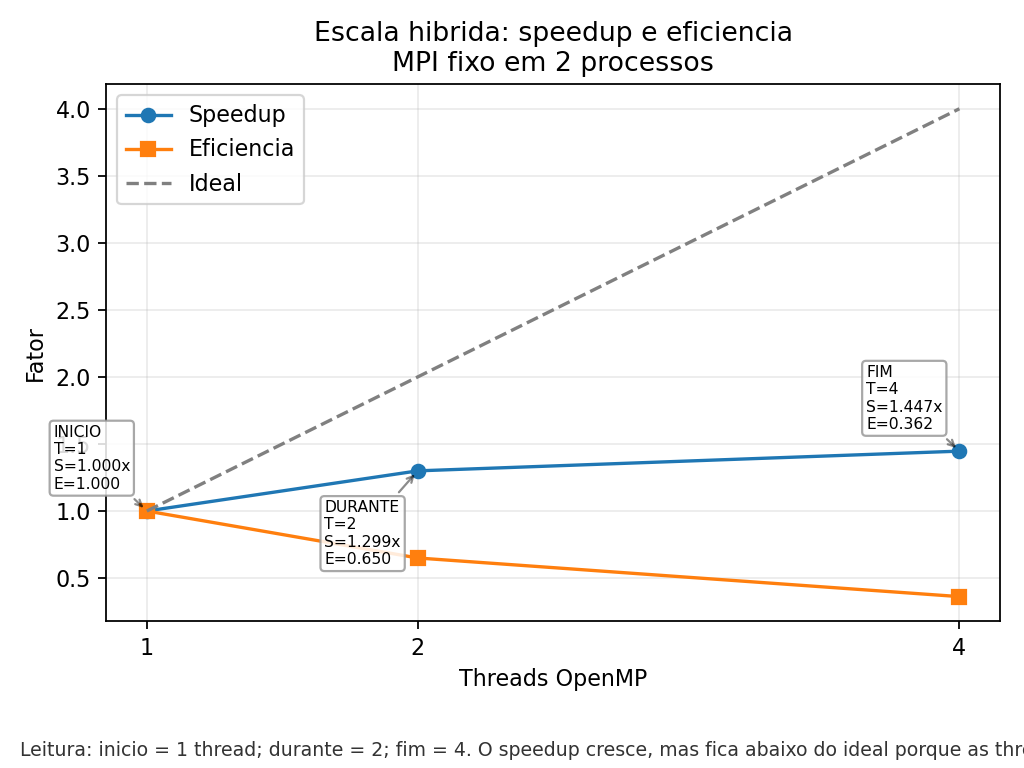
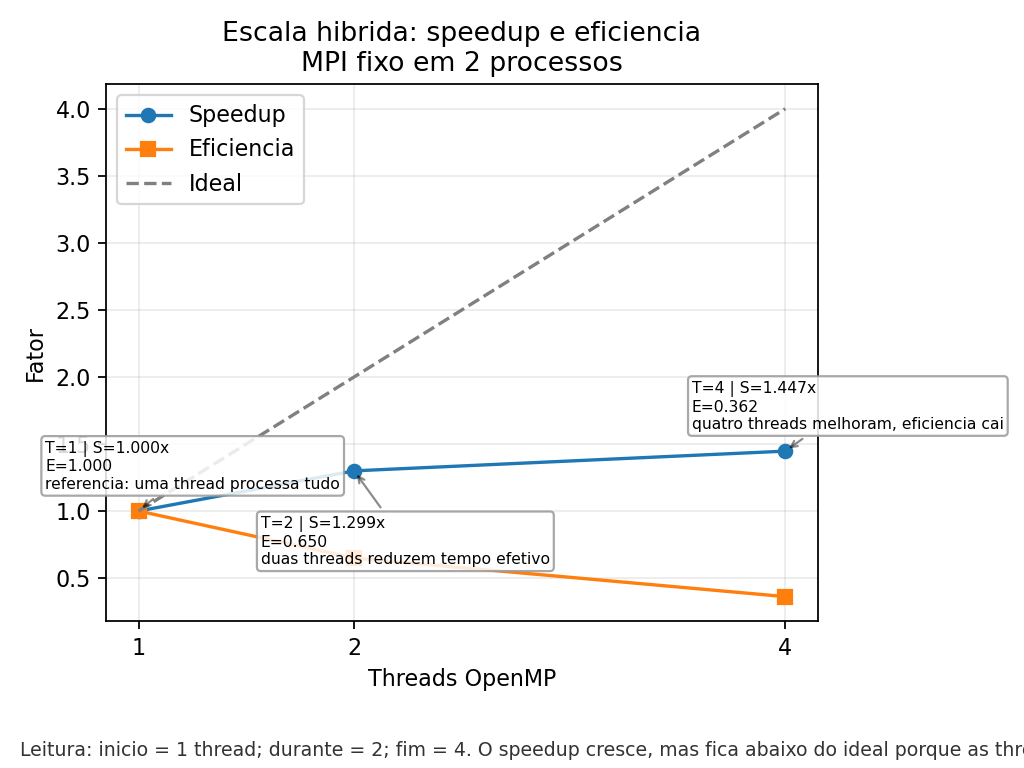
docs: clarify plot point explanations

diff --git a/scripts/analyze_cg_results.py b/scripts/analyze_cg_results.py
@@ -98,12 +98,17 @@ for matrix in sorted({row["matrix"] for row in base}):
         label=matrix,
     )
     for index, row in enumerate(values):
-        stage = "INICIO" if index == 0 else "FIM" if index == len(values) - 1 else "DURANTE"
+        descriptions = [
+            "bloco pequeno reduz zeros e tempo",
+            "bloco intermediario equilibra acesso e armazenamento",
+            "padding crescente aumenta trabalho e memoria",
+            "bloco grande amplia zeros e custo",
+        ]
         annotate_point(
             axis,
             row["block_size"],
             row["solve_mean_s"],
-            f"{stage}\nb={row['block_size']} | {row['solve_mean_s']:.3f}s\npad={row['padding_overhead'] * 100:.1f}%",
+            f"b={row['block_size']} | {row['solve_mean_s']:.3f}s\npad={row['padding_overhead'] * 100:.1f}%\n{descriptions[index]}",
             (4, 8 if index % 2 == 0 else -38),
         )
 axis.set_xlabel("Block size")
@@ -126,12 +131,16 @@ axis.errorbar(
     capsize=4,
 )
 for index, row in enumerate(strong):
-    stage = "INICIO" if index == 0 else "FIM" if index == len(strong) - 1 else "DURANTE"
+    descriptions = [
+        "referencia sem comunicacao MPI extra",
+        "mais comunicacao produz pouco ganho",
+        "overhead MPI domina e tempo aumenta",
+    ]
     annotate_point(
         axis,
         row["mpi_processes"],
         row["solve_mean_s"],
-        f"{stage}\nMPI={row['mpi_processes']}\n{row['solve_mean_s']:.3f}s",
+        f"MPI={row['mpi_processes']} | {row['solve_mean_s']:.3f}s\n{descriptions[index]}",
         (-48, 10 if index % 2 == 0 else -35),
     )
 axis.set_xlabel("Processos MPI")
@@ -148,11 +157,16 @@ axis.plot([row["mpi_processes"] for row in strong], [row["speedup"] for row in s
 axis.plot([row["mpi_processes"] for row in strong], [row["efficiency"] for row in strong], "s-", label="Eficiencia")
 axis.plot([row["mpi_processes"] for row in strong], [row["mpi_processes"] for row in strong], "--", color="gray", label="Ideal")
 for index, row in enumerate(strong):
+    descriptions = [
+        "referencia: speedup e eficiencia ideais",
+        "comunicacao reduz o ganho esperado",
+        "mais processos diminuem eficiencia final",
+    ]
     annotate_point(
         axis,
         row["mpi_processes"],
         row["speedup"],
-        f"MPI={row['mpi_processes']}\nS={row['speedup']:.3f}x\nE={row['efficiency']:.3f}",
+        f"MPI={row['mpi_processes']} | S={row['speedup']:.3f}x\nE={row['efficiency']:.3f}\n{descriptions[index]}",
         (-42, 10 if index % 2 == 0 else -38),
     )
 axis.set_xlabel("Processos MPI")
@@ -172,11 +186,16 @@ axis.plot([row["omp_threads"] for row in hybrid], [row["speedup"] for row in hyb
 axis.plot([row["omp_threads"] for row in hybrid], [row["efficiency"] for row in hybrid], "s-", label="Eficiencia")
 axis.plot([row["omp_threads"] for row in hybrid], [row["omp_threads"] for row in hybrid], "--", color="gray", label="Ideal")
 for index, row in enumerate(hybrid):
+    descriptions = [
+        "referencia: uma thread processa tudo",
+        "duas threads reduzem tempo efetivo",
+        "quatro threads melhoram, eficiencia cai",
+    ]
     annotate_point(
         axis,
         row["omp_threads"],
         row["speedup"],
-        f"{'INICIO' if index == 0 else 'FIM' if index == len(hybrid) - 1 else 'DURANTE'}\nT={row['omp_threads']}\nS={row['speedup']:.3f}x\nE={row['efficiency']:.3f}",
+        f"T={row['omp_threads']} | S={row['speedup']:.3f}x\nE={row['efficiency']:.3f}\n{descriptions[index]}",
         (-42, 10 if index % 2 == 0 else -42),
     )
 axis.set_xlabel("Threads OpenMP")
@@ -195,12 +214,17 @@ for matrix in sorted({row["matrix"] for row in base}):
     values = sorted((row for row in base if row["matrix"] == matrix), key=lambda row: row["block_size"])
     axis.plot([row["block_size"] for row in values], [row["padding_overhead"] * 100 for row in values], "o-", label=matrix)
     for index, row in enumerate(values):
-        stage = "INICIO" if index == 0 else "FIM" if index == len(values) - 1 else "DURANTE"
+        descriptions = [
+            "bloco pequeno: menos zeros adicionados",
+            "bloco intermediario: padding comeca crescer",
+            "bloco maior: mais zeros armazenados",
+            "bloco grande: alto desperdicio de memoria",
+        ]
         annotate_point(
             axis,
             row["block_size"],
             row["padding_overhead"] * 100,
-            f"{stage}\nb={row['block_size']}\npad={row['padding_overhead'] * 100:.1f}%",
+            f"b={row['block_size']} | pad={row['padding_overhead'] * 100:.1f}%\n{descriptions[index]}",
             (4, 8 if index % 2 == 0 else -32),
         )
 axis.set_xlabel("Block size")

diff --git a/report/report.md b/report/report.md
@@ -222,14 +222,8 @@ matriz.
 #### Como ler os graficos
 
 Todos os pontos representam a media de tres execucoes. As barras de erro
-representam o desvio padrao entre as repeticoes. As caixas indicam a etapa da
-historia do experimento:
-
-```text
-INICIO   configuracao de referencia
-DURANTE  configuracao intermediaria
-FIM      maior block size, numero de processos ou numero de threads
-```
+representam o desvio padrao entre as repeticoes. Cada caixa combina os valores
+do ponto com uma frase curta sobre o fenomeno observado.
 
 Nos graficos de tempo, o valor dentro da caixa e o tempo medio em segundos.
 Nos graficos de escala, `S` significa speedup e `E` significa eficiencia. A
